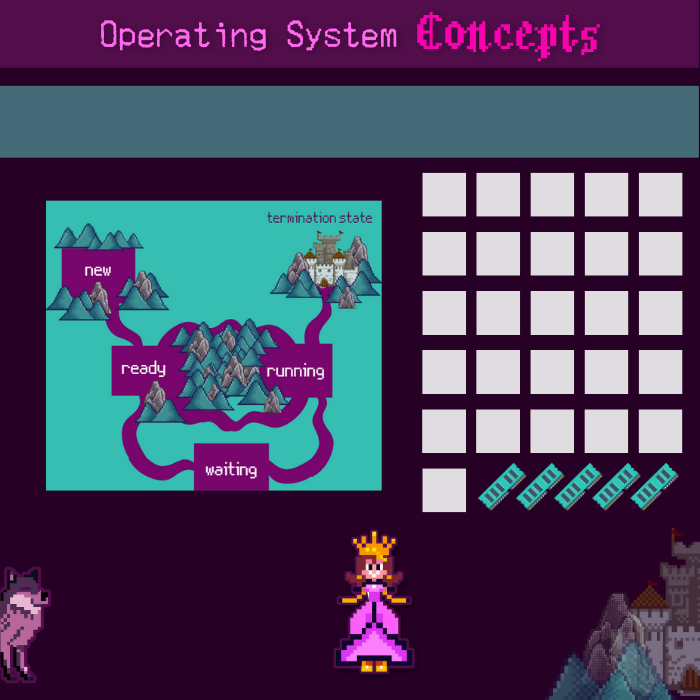
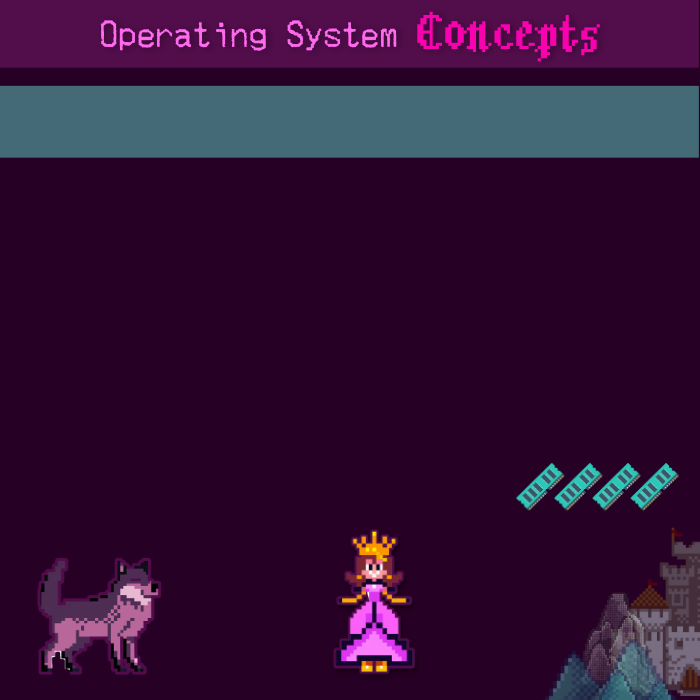
Add maps and blank letters JLabel

diff --git a/src/view/KernelKingdom.java b/src/view/KernelKingdom.java
@@ -4,6 +4,11 @@ import java.awt.*;
 public class KernelKingdom {
     private final Frame frame;
     private Panel menuPanel;
+    private JLabel blankLetters;
+    private Panel mapsPanel;
+
+    private Panel letterButtonsPanel;
+
     private Panel mainGamePanel;
     private Panel instructionsPanel;
     private Panel aboutPanel;
@@ -36,16 +41,24 @@ public class KernelKingdom {
 
         // MAIN GAME PANEL
         mainGamePanel = new Panel(false, "main-game-panel.png");
+        //Blanks for the word
+        blankLetters = new JLabel();
+
+
+        // Maps panel
+        mapsPanel = new Panel(true, "new-state.png", 47, 200, 338, 294);
+        // Keybroard buttons
         int buttonBoundsX = 17;
         int buttonBoundsY = 22;
         int buttonDimensions = 43;
         int incrementer = 55;
-
-        Panel letterButtonsPanel = new Panel(405, 150, 300, 365);
+        letterButtonsPanel = new Panel(405, 170, 300, 365);
         letterButtons = new ImageButton[26];
         for (int i = 0; i < 26; i++) {
 
             letterButtons[i] = new ImageButton("a.png");
+//            letterButtons[i] = new ImageButton(Character.toString((char) ('a' + i)));
+
             letterButtons[i].setBackground(BUTTON_COLOR);
             if ((i+1) % 5 == 0) {
                 letterButtons[i].setBounds(buttonBoundsX, buttonBoundsY, buttonDimensions, buttonDimensions);
@@ -61,6 +74,9 @@ public class KernelKingdom {
 
         }
         letterButtonsPanel.setVisible(true);
+
+        mainGamePanel.add(blankLetters);
+        mainGamePanel.add(mapsPanel);
         mainGamePanel.add(letterButtonsPanel);
 
 

diff --git a/src/model/Game.java b/src/model/Game.java
@@ -58,7 +58,7 @@ public class Game {
         return words.get(index);
     }
 
-    public String getWordToGuess() {
+    public String getFullWordToGuess() {
         return wordToGuess;
     }
 
